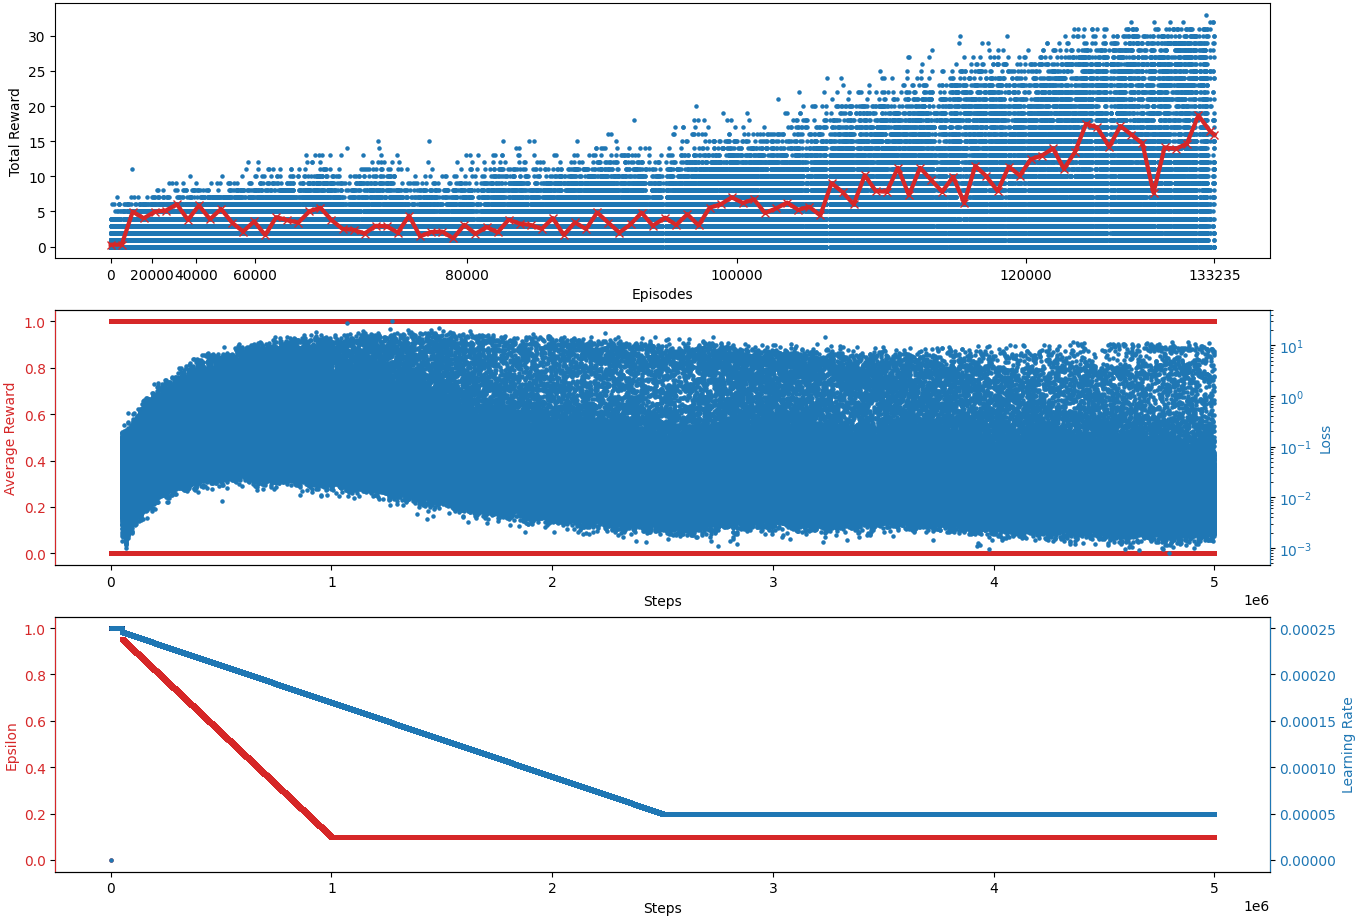
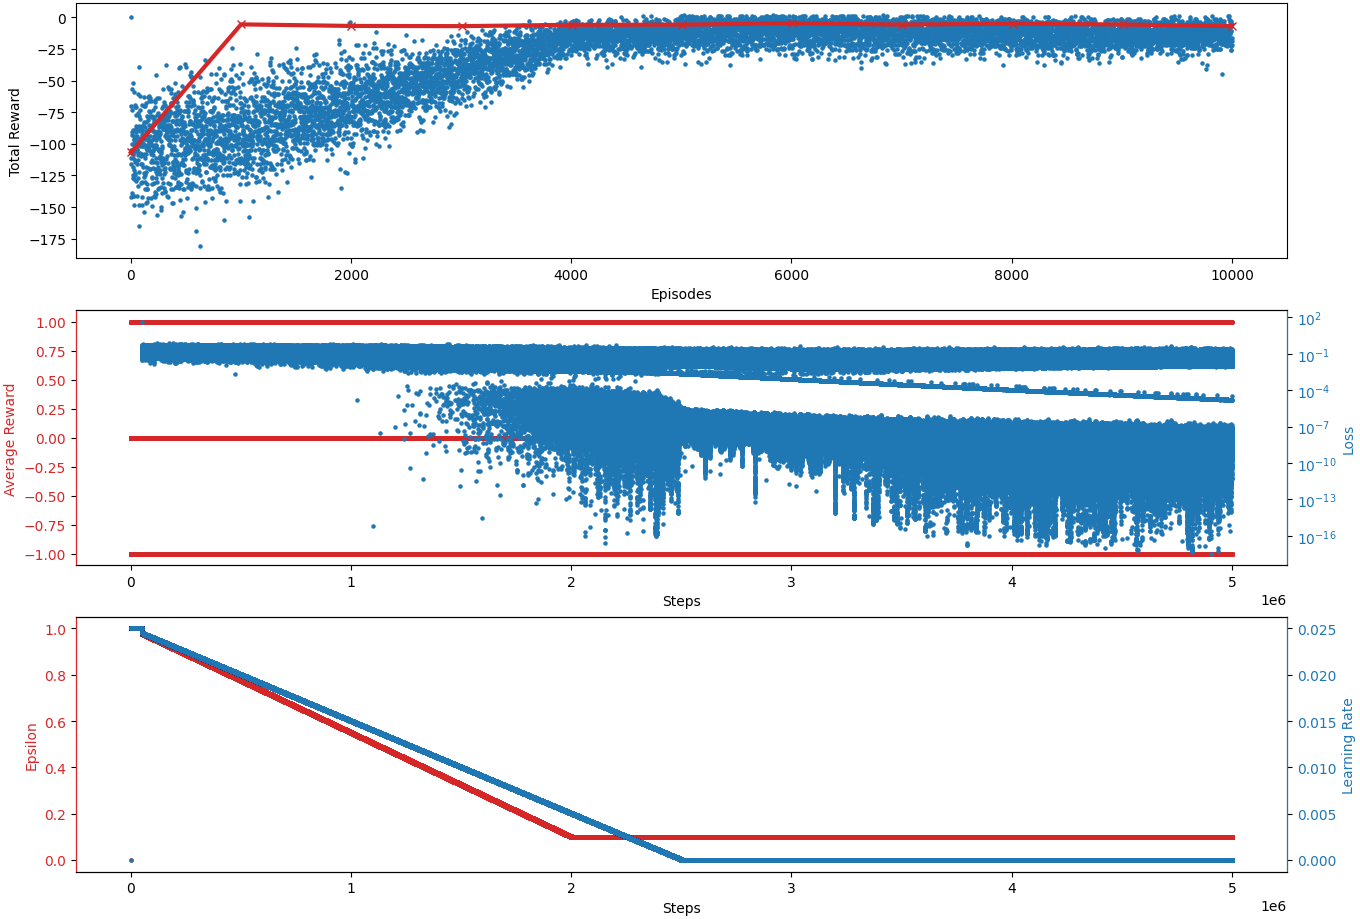
add transformations

diff --git a/sudoku/envs/sudoku_grid.py b/sudoku/envs/sudoku_grid.py
@@ -162,6 +162,7 @@ class SudokuEnv(gym.Env):
         self.initial_grid = None
         self.initial_solu = None
         self.empty_cases = None
+        self.unfilled_cases = None
 
         # Initiate the grid generator
         self.grid_generator = SudokuGenerator(step_mode)
@@ -196,13 +197,15 @@ class SudokuEnv(gym.Env):
         grid, solu = next(self.grid_generator)
         self.initial_grid = grid
         self.solution_grid = solu
-        self.empty_cases = np.sum(grid <= 0)
+        self.empty_cases = self.unfilled_cases = np.sum(grid <= 0)
 
         self.grid = np.concatenate([np.expand_dims(grid, axis=2), idx], axis=-1)
 
 
     def _next_observation(self):
-        return self.grid
+        # Max normalization
+        obs = self.grid / 9.
+        return obs
 
 
     def _take_action(self, action):
@@ -241,17 +244,27 @@ class SudokuEnv(gym.Env):
             self._action_value = (action + 1) - 4
 
         # Updating the grid
+        self.is_unvalid = False
         self._action_filled_new_case = False
         if (is_value and self.grid[row_idx, col_idx, 0] <= 0):
             self._action_filled_new_case = True
-            self.grid[row_idx, col_idx, 0] = self._action_value
+
+            # Check validity
+            self.is_unvalid = (
+                self.solution_grid[row_idx, col_idx] != self._action_value
+            )
+            if not self.is_unvalid:
+                self.grid[row_idx, col_idx, 0] = self._action_value
 
 
     def _compute_reward(self):
         reward = 0
 
         # Bonus for new cases
-        if self._action_filled_new_case and not self.is_unvalid:
+        if self.is_unvalid:
+            reward -= 1
+        # Malus for bad value
+        elif self._action_filled_new_case:
             reward += 1
 
         if self.is_completed and not self.is_unvalid:
@@ -268,19 +281,12 @@ class SudokuEnv(gym.Env):
         self._take_action(action)
 
         self.current_step += 1
-        self.is_completed = np.sum(self.grid[:, :, 0] <= 0) < 1
-
-        self.is_unvalid = False
-        if self._action_filled_new_case:
-            # Get current row/col indexes
-            row_idx = np.arange(9)[self.grid[:, :, -1].sum(1).astype(bool)]
-            col_idx = np.arange(9)[self.grid[:, :, -1].sum(0).astype(bool)]
-            self.is_unvalid = self.solution_grid[row_idx, col_idx] != self._action_value
+        self.unfilled_cases = np.sum(self.grid[:, :, 0] <= 0)
+        self.is_completed = self.unfilled_cases < 1
 
         terminated = (
             self.is_completed or
-            self.current_step == settings.MAX_STEPS or
-            self.is_unvalid
+            self.current_step == settings.MAX_STEPS
         )
         reward = self._compute_reward()
         obs = self._next_observation()
@@ -382,13 +388,20 @@ class SudokuEnv(gym.Env):
         police = pygame.font.Font(None, 36)
         text = police.render(f"Step: {self.current_step}", True, RED)
         canvas.blit(
-            text, (self.window_size // 2 - 35, self.window_size + 24)
+            text, (self.window_size // 2 - 35, self.window_size + 15)
         )
         text = police.render(
-            f"Filled: {self.cumulative_reward}/{self.empty_cases}", True, RED
+            (
+                f"Filled: {self.empty_cases - self.unfilled_cases}/"
+                f"{self.empty_cases}"
+            ), True, RED
         )
         canvas.blit(
-            text, (self.window_size // 2 - 35, self.window_size + 55)
+            text, (self.window_size // 2 - 35, self.window_size + 45)
+        )
+        text = police.render(f"Reward: {self.cumulative_reward}", True, RED)
+        canvas.blit(
+            text, (self.window_size // 2 - 35, self.window_size + 75)
         )
 
         if self.is_unvalid:
@@ -402,13 +415,15 @@ class SudokuEnv(gym.Env):
             )
 
         if self.render_mode == "human":
-            # The following line copies our drawings from `canvas` to the visible window
+            # The following line copies our drawings from `canvas` to the
+            # visible window
             self.window.blit(canvas, canvas.get_rect())
             pygame.event.pump()
             pygame.display.update()
 
-            # We need to ensure that human-rendering occurs at the predefined framerate.
-            # The following line will automatically add a delay to keep the framerate stable.
+            # We need to ensure that human-rendering occurs at the predefined
+            # framerate. The following line will automatically add a delay to
+            # keep the framerate stable.
             self.clock.tick(self.metadata["render_fps"])
 
         elif self.render_mode == "rgb_array":

diff --git a/sudoku/configs/settings.py b/sudoku/configs/settings.py
@@ -36,24 +36,24 @@ soft_epsilon      = 0.05
 
 # hyper params
 nsteps_train       = 5000000
-batch_size         = 128
+batch_size         = 16  # 128
 buffer_size        = 500000
 target_update_freq = 10000
 gamma              = 0.99
 learning_freq      = 4
 state_history      = 4
 skip_frame         = 4
-lr_begin           = 0.00025
+lr_begin           = 0.025  # 0.00025
 lr_end             = 0.00005
 lr_nsteps          = nsteps_train/2
 eps_begin          = 1
 eps_end            = 0.1
-eps_nsteps         = 1000000
+eps_nsteps         = 2000000
 learning_start     = 50000
 
 
 # Environment settings
-MAX_STEPS = 10000
+MAX_STEPS = 500  # 10000
 
 N_ACTIONS = 9 + 4
 OBS_SHAPE = (9, 9, 2)
